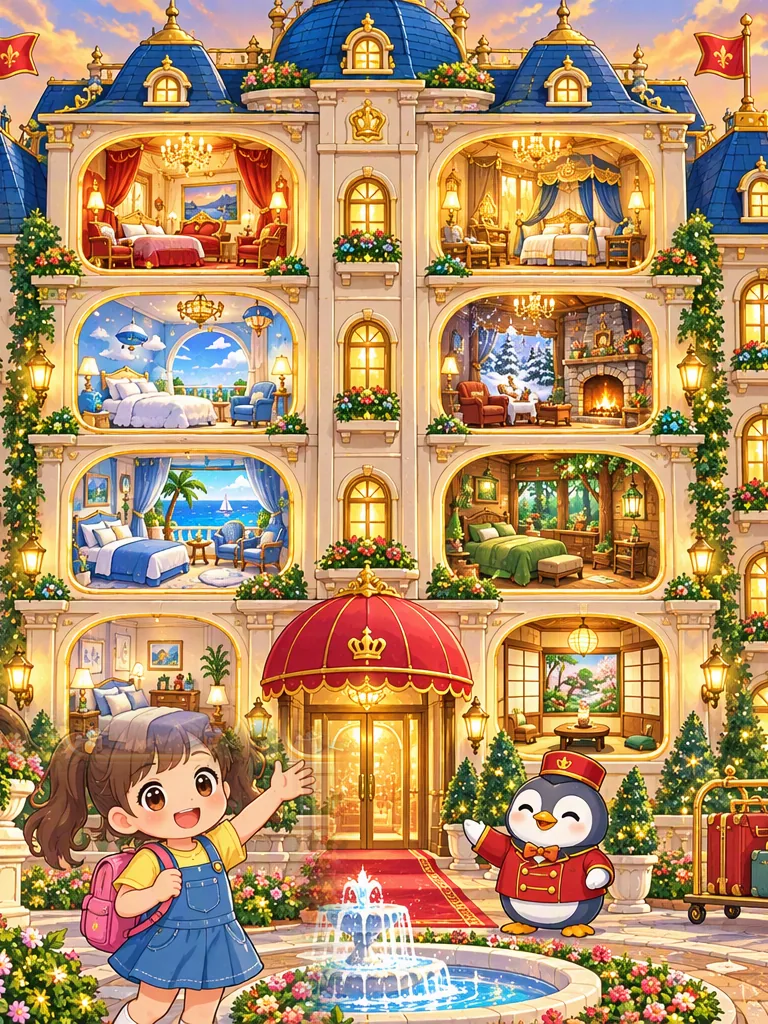
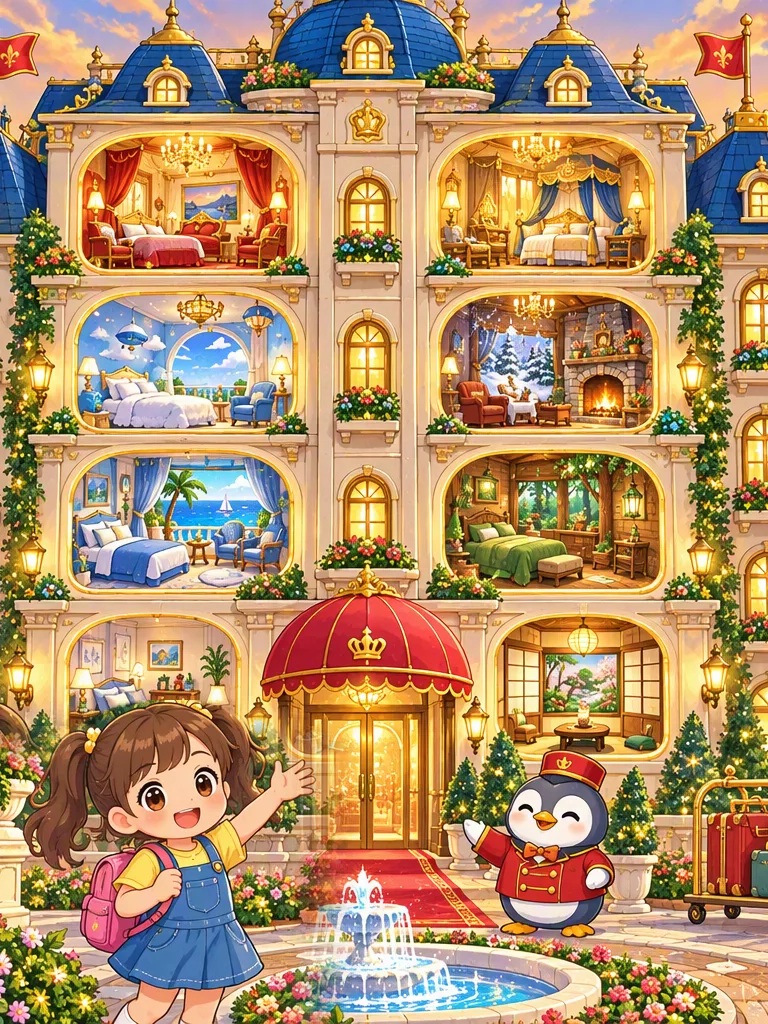
Add files via upload

Changed region(s): [[0.0625, 0.6562, 0.3438, 0.75]]

diff --git a/js/facilities.js b/js/facilities.js
@@ -1,5 +1,5 @@
 /* =====================================================================
-   まなびタウン v4.2：たてものの きのう（v7.2：ホテルの 絵の 引き伸ばし修正／ゆうえんち パレード修正）
+   まなびタウン v4.2：たてものの きのう（v7.3：ホテル家具の 上から見た絵／ハナを 前面に）
    畑・公園・図書館・学校・パーキング・病院・市やくしょ・ホテル
    （おまけ：はくぶつかん・風車）
    ※ app.js の あとに 読みこむ。セーブは save.fac に 追加するだけ
@@ -317,27 +317,28 @@ const SPECIAL = [
 const SV = id => SOUV.find(x => x.id===id) || SPECIAL.find(x => x.id===id);
 /* ---------- ホテル限定の 家具・かざり（v7.1）：k='fur'＝わたしの家／k='deco'＝まち ---------- */
 const HFUR = [
-  {id:'htl_chandelier', art:'fur_htl_chandelier', n:'ゴールドシャンデリア',     k:'fur',  g:1, p:2000, sty:12, size:1.2, d:'キラキラ光る、ホテルの大シャンデリア'},
+  {id:'htl_chandelier', art:'fur_htl_chandelier', n:'ゴールドシャンデリア',     k:'fur',  g:1, p:2000, sty:12, size:1.2, foot:[1,1], d:'キラキラ光る、ホテルの大シャンデリア'},
   {id:'htl_wagon',      art:'fur_htl_wagon',      n:'ルームサービスワゴン',     k:'fur',  g:1, p:1500, sty:8,  size:1.4, foot:[2,1], d:'お部屋にとどく、ごうかなワゴン'},
-  {id:'htl_cart',       art:'fur_htl_cart',       n:'ベルボーイのにもつカート', k:'fur',  g:2, p:2500, sty:12, size:1.2, d:'旅行かばんがいっぱいの金色カート'},
+  {id:'htl_cart',       art:'fur_htl_cart',       n:'ベルボーイのにもつカート', k:'fur',  g:2, p:2500, sty:12, size:1.2, foot:[1,1], d:'旅行かばんがいっぱいの金色カート'},
   {id:'d_htlpenguin',   art:'dc_htl_penguin',     n:'ペンギンのドアマン像',     k:'deco', g:2, p:1800, dev:20, emoji:'🐧', d:'まちに置ける、ホテルのドアマンの像'},
   {id:'d_htlarch',      art:'dc_htl_arch',        n:'ホテルのバラのアーチ',     k:'deco', g:3, p:3000, dev:30, emoji:'🌹', d:'まちに置ける、赤いじゅうたんとバラのアーチ'}
 ];
 /* 部屋の 記念家具：その部屋で はじめて 仲良しが できると お店に ならぶ */
 const MEMO = [
-  {id:'mm_std',    room:'std',    n:'ふかふかまくら',     p:1500, sty:8,  size:1.0},
+  {id:'mm_std',    room:'std',    n:'ふかふかまくら',     p:1500, sty:8,  size:1.0, foot:[1,1]},
   {id:'mm_wa',     room:'wa',     n:'たたみの小上がり',   p:2000, sty:10, size:1.8, foot:[2,2]},
-  {id:'mm_ocean',  room:'ocean',  n:'貝がらランプ',       p:2000, sty:10, size:1.0},
-  {id:'mm_forest', room:'forest', n:'きりかぶテーブル',   p:2000, sty:10, size:1.3},
+  {id:'mm_ocean',  room:'ocean',  n:'貝がらランプ',       p:2000, sty:10, size:1.0, foot:[1,1]},
+  {id:'mm_forest', room:'forest', n:'きりかぶテーブル',   p:2000, sty:10, size:1.6, foot:[2,2]},
   {id:'mm_sky',    room:'sky',    n:'くものソファ',       p:2500, sty:12, size:1.6, foot:[2,1]},
-  {id:'mm_snow',   room:'snow',   n:'雪の結晶ランプ',     p:2500, sty:12, size:1.1},
-  {id:'mm_suite',  room:'suite',  n:'ゴールドミラー',     p:3500, sty:16, size:1.1},
+  {id:'mm_snow',   room:'snow',   n:'雪の結晶ランプ',     p:2500, sty:12, size:1.1, foot:[1,1]},
+  {id:'mm_suite',  room:'suite',  n:'ゴールドミラー',     p:3500, sty:16, size:1.3, foot:[2,1]},
   {id:'mm_royal',  room:'royal',  n:'おうかんのベッド',   p:5000, sty:25, size:1.8, foot:[2,2]}
 ].map(m => Object.assign({art:'fur_' + m.id, k:'fur', g:0, d:`${ROOM(m.room).n}の記念家具`}, m));
 const HF = id => HFUR.find(x => x.id===id) || MEMO.find(x => x.id===id);
 try{
   HFUR.concat(MEMO).forEach(f => {
     DEFAULT_ART[f.art] = himg(f.art); SHOP_ONLY[f.id] = 'hotel';
+    if(f.k==='fur') DEFAULT_ART['ft_' + f.id] = himg('ft_' + f.id);   // 上から見た絵（v7.3）
     if(f.k==='fur'){
       if(!FURNITURE.some(x => x.id===f.id)) FURNITURE.push({id:f.id, name:f.n, art:f.art, type:'fur', price:f.p, lv:5, sty:f.sty, special:true, hotel:true});
       if(f.foot) FOOT[f.id] = f.foot;
@@ -468,7 +469,8 @@ function concierge(){
 }
 function vTop(L){
   const sp = L ? SPOTS_L : SPOTS_P, g = hGrade();
-  const img = stage(himg(L ? 'htl_top_l' : 'htl_top_p'), L ? '3/2' : '3/4', ROOMS.map(r => spotHTML(r, sp)).join(''), 'hTopS');
+  const front = L ? '' : `<img class="htlFront" src="${himg('htl_top_p')}" alt="" draggable="false">`;   // ハナを 窓より 前に
+  const img = stage(himg(L ? 'htl_top_l' : 'htl_top_p'), L ? '3/2' : '3/4', ROOMS.map(r => spotHTML(r, sp)).join('') + front, 'hTopS');
   const side = `<div class="htlSay"><img src="${himg('htl_penguin_wave')}" alt=""><p>${concierge()}</p></div>
     <div class="htlGrid">${ROOMS.map(cardHTML).join('')}</div>
     <div class="htlBtns"><button class="htlB gold" data-h="shop">🛎 ホテルのお店</button><button class="htlB" data-h="pals">💞 仲良し <small>${HT().palList.length}</small></button>

diff --git a/css/facilities.css b/css/facilities.css
@@ -172,3 +172,8 @@
 .htlBanner{display:block;width:100%;aspect-ratio:2.4/1;object-fit:cover;object-position:center 40%;border-radius:12px;border:2px solid #E0B54A;margin-bottom:8px}
 #htl.hP .htlBanner{aspect-ratio:1.6/1}
 .htlFur{margin-top:12px}
+
+/* v7.3：ホテルトップ（スマホ縦）ハナの頭・体を 窓より 前に 表示 */
+.htlFront{position:absolute;inset:0;width:100%;height:100%;object-fit:cover;pointer-events:none;z-index:3;
+  clip-path:polygon(3.9% 78.1%,5.5% 75.4%,8.1% 72.1%,11.5% 70.1%,15.4% 68.8%,20.2% 68.3%,24.7% 68.3%,28.4% 68.9%,31.5% 70.5%,33.9% 72.5%,35.4% 75.2%,36.2% 78.6%,36.2% 100%,3.9% 100%)}
+.htlSpot{z-index:2}
